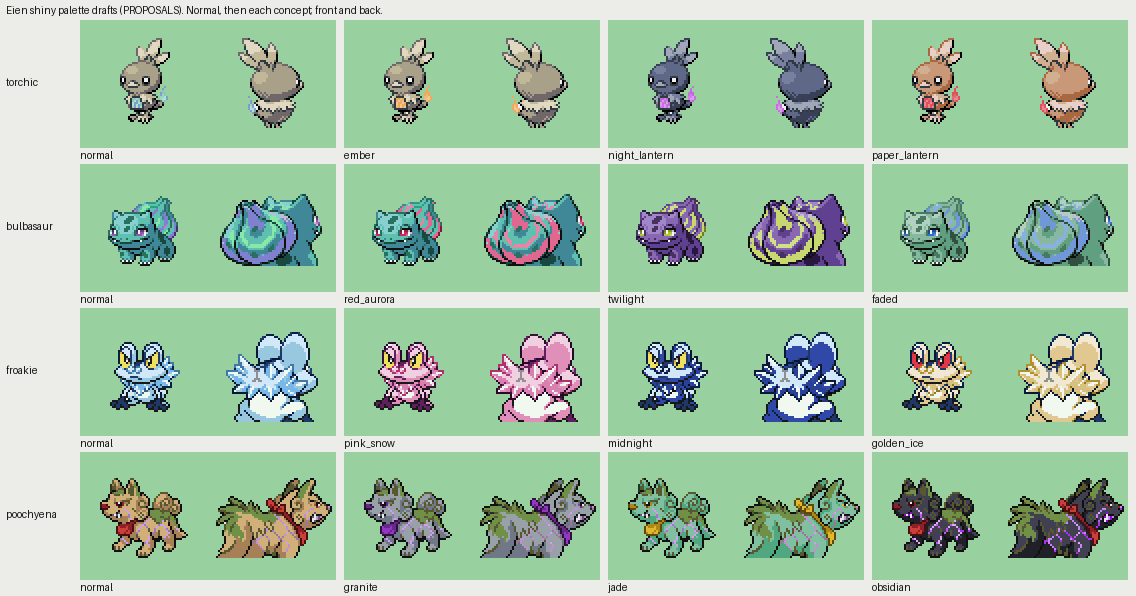
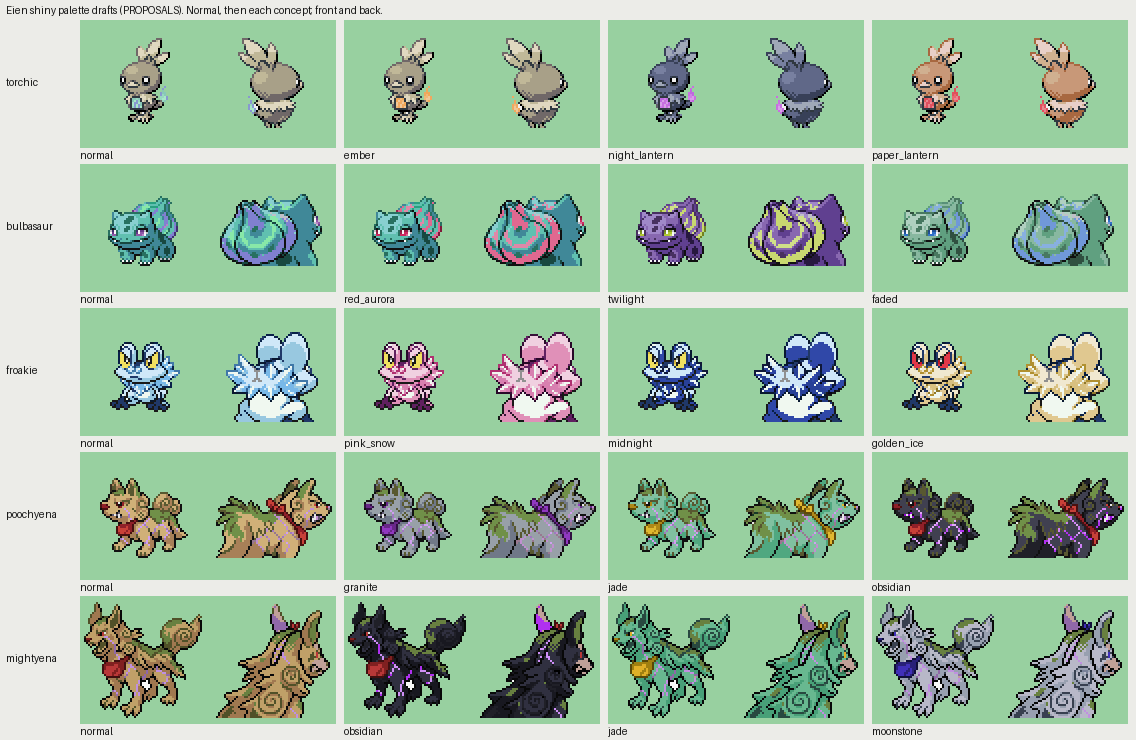
Draft Eien Mightyena shiny palettes
Three concepts (obsidian, jade, moonstone) in shiny_drafts.py, with a sheet next to Eien
Poochyena's. Not in the game yet.

Claude-Session: https://claude.ai/code/session_01G6mdd4rtnc9Ji3oyxMHNQm

diff --git a/tools/eien_species/shiny_drafts.py b/tools/eien_species/shiny_drafts.py
@@ -53,6 +53,14 @@ CONCEPTS = {
         # obsidian: black glassy stone, bright violet cracks
         "obsidian": [((2, 10, 14), 250, 0.12, -0.35), ((5, 8, 9, 11, 13), 280, 0.9, 0.05)],
     },
+    "mightyena": {
+        # obsidian, like Eien Poochyena's shiny: black glassy stone, bright violet cracks
+        "obsidian": [((6, 9, 12), 250, 0.12, -0.35), ((2, 4), 250, 0.12, -0.08), ((8, 11), 280, 0.9, 0.05)],
+        # jade: green jade stone, gold bib
+        "jade": [((6, 9, 12), 150, 0.35, 0.0), ((2, 4), 160, 0.3, 0.0), ((3, 7, 10), 45, 0.75, 0.05)],
+        # moonstone: pale white stone, indigo bib, violet cracks
+        "moonstone": [((6, 9, 12), 220, 0.12, 0.18), ((2, 4), 230, 0.15, 0.05), ((3, 7, 10), 245, 0.55, 0.0)],
+    },
 }
 
 

diff --git a/design/art/eien_mightyena/README.md b/design/art/eien_mightyena/README.md
@@ -60,3 +60,16 @@ were indexed with the form's palette. All four keep the legs still.
 - **3 Pro a (779 px):** a clean howl with fangs, but the tail stays put.
 - **3 Pro b (680 px):** like Pro a, with a smaller head move.
 - **3.1 Flash b (372 px):** the head lifts only a little.
+
+## Shiny palette drafts (proposals)
+
+Made by `tools/eien_species/shiny_drafts.py` like the other forms' shinies. Each concept recolors
+groups of palette slots (stone 6/9/12 and its shading 2/4, bib 3/7/10, cracks 8/11), keeping each
+color's lightness so the shading survives. The drafts are `shiny_drafts/*.pal`.
+[shiny_line.png](shiny_line.png) shows Eien Poochyena's row above Eien Mightyena's; the full sheet is
+[../eien_shiny_contact_sheet.png](../eien_shiny_contact_sheet.png).
+
+- **obsidian:** black glassy stone and bright violet cracks. The moss and red bib stay. It matches
+  Eien Poochyena's chosen shiny, so the line shines the same way. The best fit.
+- **jade:** green jade stone and a gold bib, like Poochyena's "jade" draft.
+- **moonstone:** pale white-grey stone and an indigo bib. The violet cracks are faint on it.
